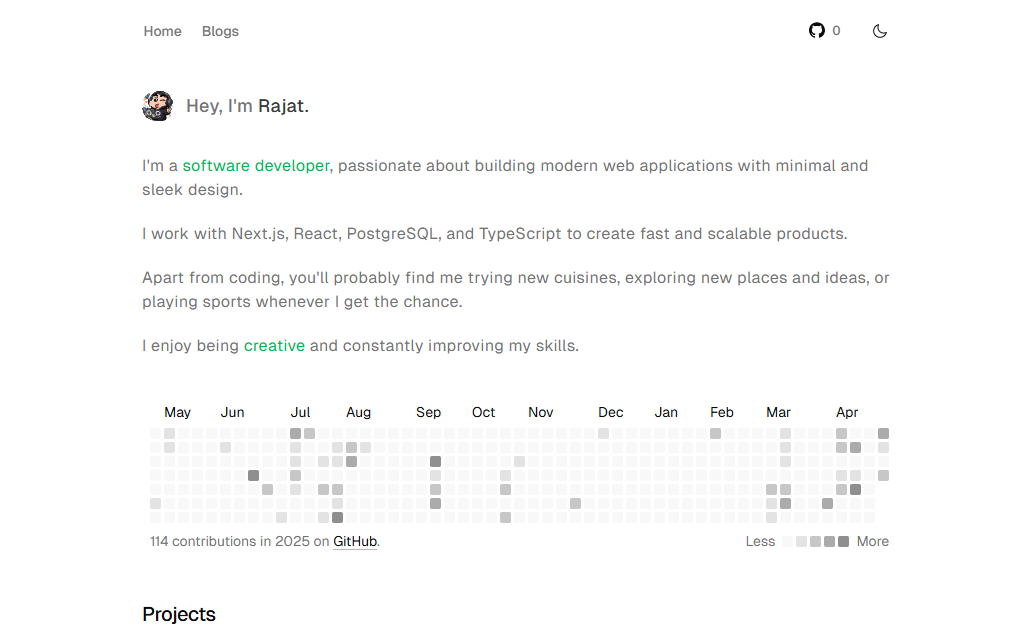
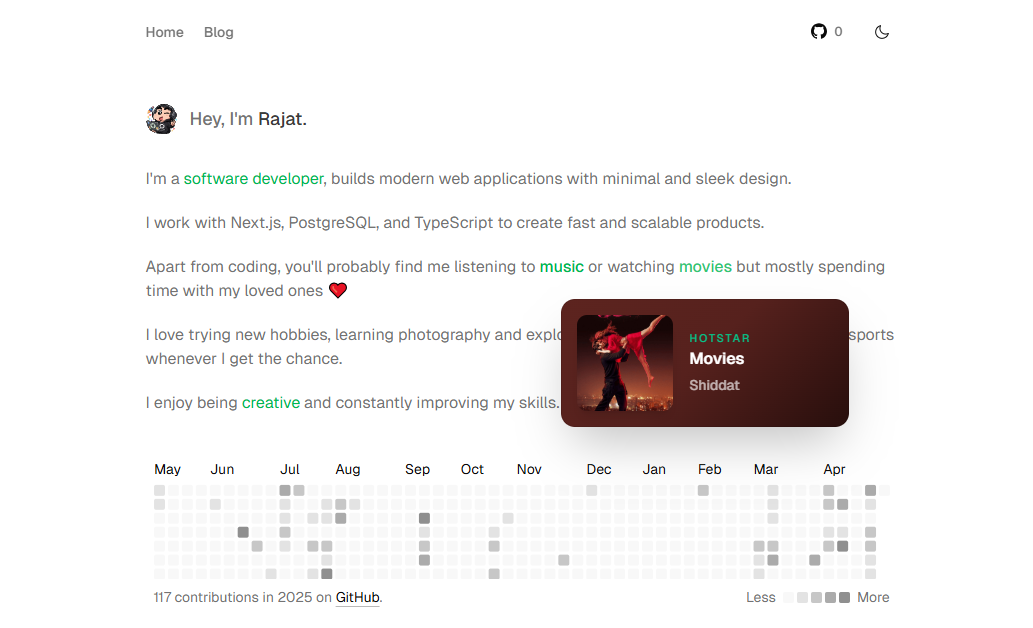
Added og images

diff --git a/src/config/seo.ts b/src/config/seo.ts
@@ -1,0 +1,57 @@
+import type { Metadata } from "next";
+
+const siteUrl = "https://playgroundd.vercel.app";
+
+export const seo = {
+    title: "Playground",
+    description: "Sleek portfolio designed and built by Rajat Tripathi.",
+    url: siteUrl,
+    image: "/playground-light.png",
+} as const;
+
+type SeoOptions = {
+    title?: string;
+    description?: string;
+    path?: string;
+    image?: string;
+    type?: "website" | "article";
+};
+
+export function createMetadata({
+    title = seo.title,
+    description = seo.description,
+    path = "/",
+    image = seo.image,
+    type = "website",
+}: SeoOptions = {}): Metadata {
+    const url = new URL(path, seo.url).toString();
+    const imageUrl = new URL(image, seo.url).toString();
+
+    return {
+        title,
+        description,
+        alternates: {
+            canonical: url,
+        },
+        openGraph: {
+            title,
+            description,
+            url,
+            type,
+            images: [
+                {
+                    url: imageUrl,
+                    width: 1200,
+                    height: 630,
+                    alt: title,
+                },
+            ],
+        },
+        twitter: {
+            card: "summary_large_image",
+            title,
+            description,
+            images: [imageUrl],
+        },
+    };
+}

diff --git a/src/app/layout.tsx b/src/app/layout.tsx
@@ -4,6 +4,9 @@ import Providers from "@/components/assets/Providers";
 import Navbar from "@/components/common/navbar";
 import { Container } from "@/components/common/Container";
 import { TooltipProvider } from "@/components/ui/tooltip";
+import { seo } from "@/config/seo";
+import { Analytics } from "@vercel/analytics/next";
+import { SpeedInsights } from "@vercel/speed-insights/next";
 import "./globals.css";
 
 const geistSans = Geist({
@@ -12,10 +15,31 @@ const geistSans = Geist({
 });
 
 export const metadata: Metadata = {
-  title: "Playground",
-  description: "Sleek portfolio designed and built by Rajat Tripathi",
+  metadataBase: new URL(seo.url),
+  title: seo.title,
+  description: seo.description,
   icons: {
-    icon: [{ url: "/shinchan.svg", sizes: "16x16", type: "image/svg" }],
+    icon: [
+      {
+        url: "/shinchan.svg",
+        sizes: "16x16",
+        type: "image/svg+xml",
+      },
+    ],
+  },
+  openGraph: {
+    title: seo.title,
+    description: seo.description,
+    url: seo.url,
+    siteName: seo.title,
+    images: [{ url: seo.image }],
+    type: "website",
+  },
+  twitter: {
+    card: "summary_large_image",
+    title: seo.title,
+    description: seo.description,
+    images: [seo.image],
   },
 };
 
@@ -28,7 +52,7 @@ export default function RootLayout({
     <html
       lang="en"
       suppressHydrationWarning
-      className={`${geistSans.className} ${geistSans.variable} h-full antialiased`}
+      className={`${geistSans.variable} h-full antialiased`}
     >
       <body className="min-h-full flex flex-col">
         <Providers>
@@ -39,6 +63,7 @@ export default function RootLayout({
             </Container>
           </TooltipProvider>
         </Providers>
+        <Analytics /> <SpeedInsights />
       </body>
     </html>
   );

diff --git a/src/app/page.tsx b/src/app/page.tsx
@@ -4,6 +4,9 @@ import Projects from "@/components/landing/projects";
 import Tools from "@/components/landing/tools";
 import Footer from "@/components/common/footer";
 import { Separator } from "@/components/ui/separator";
+import { createMetadata } from "@/config/seo";
+
+export const generateMetadata = () => createMetadata({ path: "/" });
 
 export default function Home() {
   return (